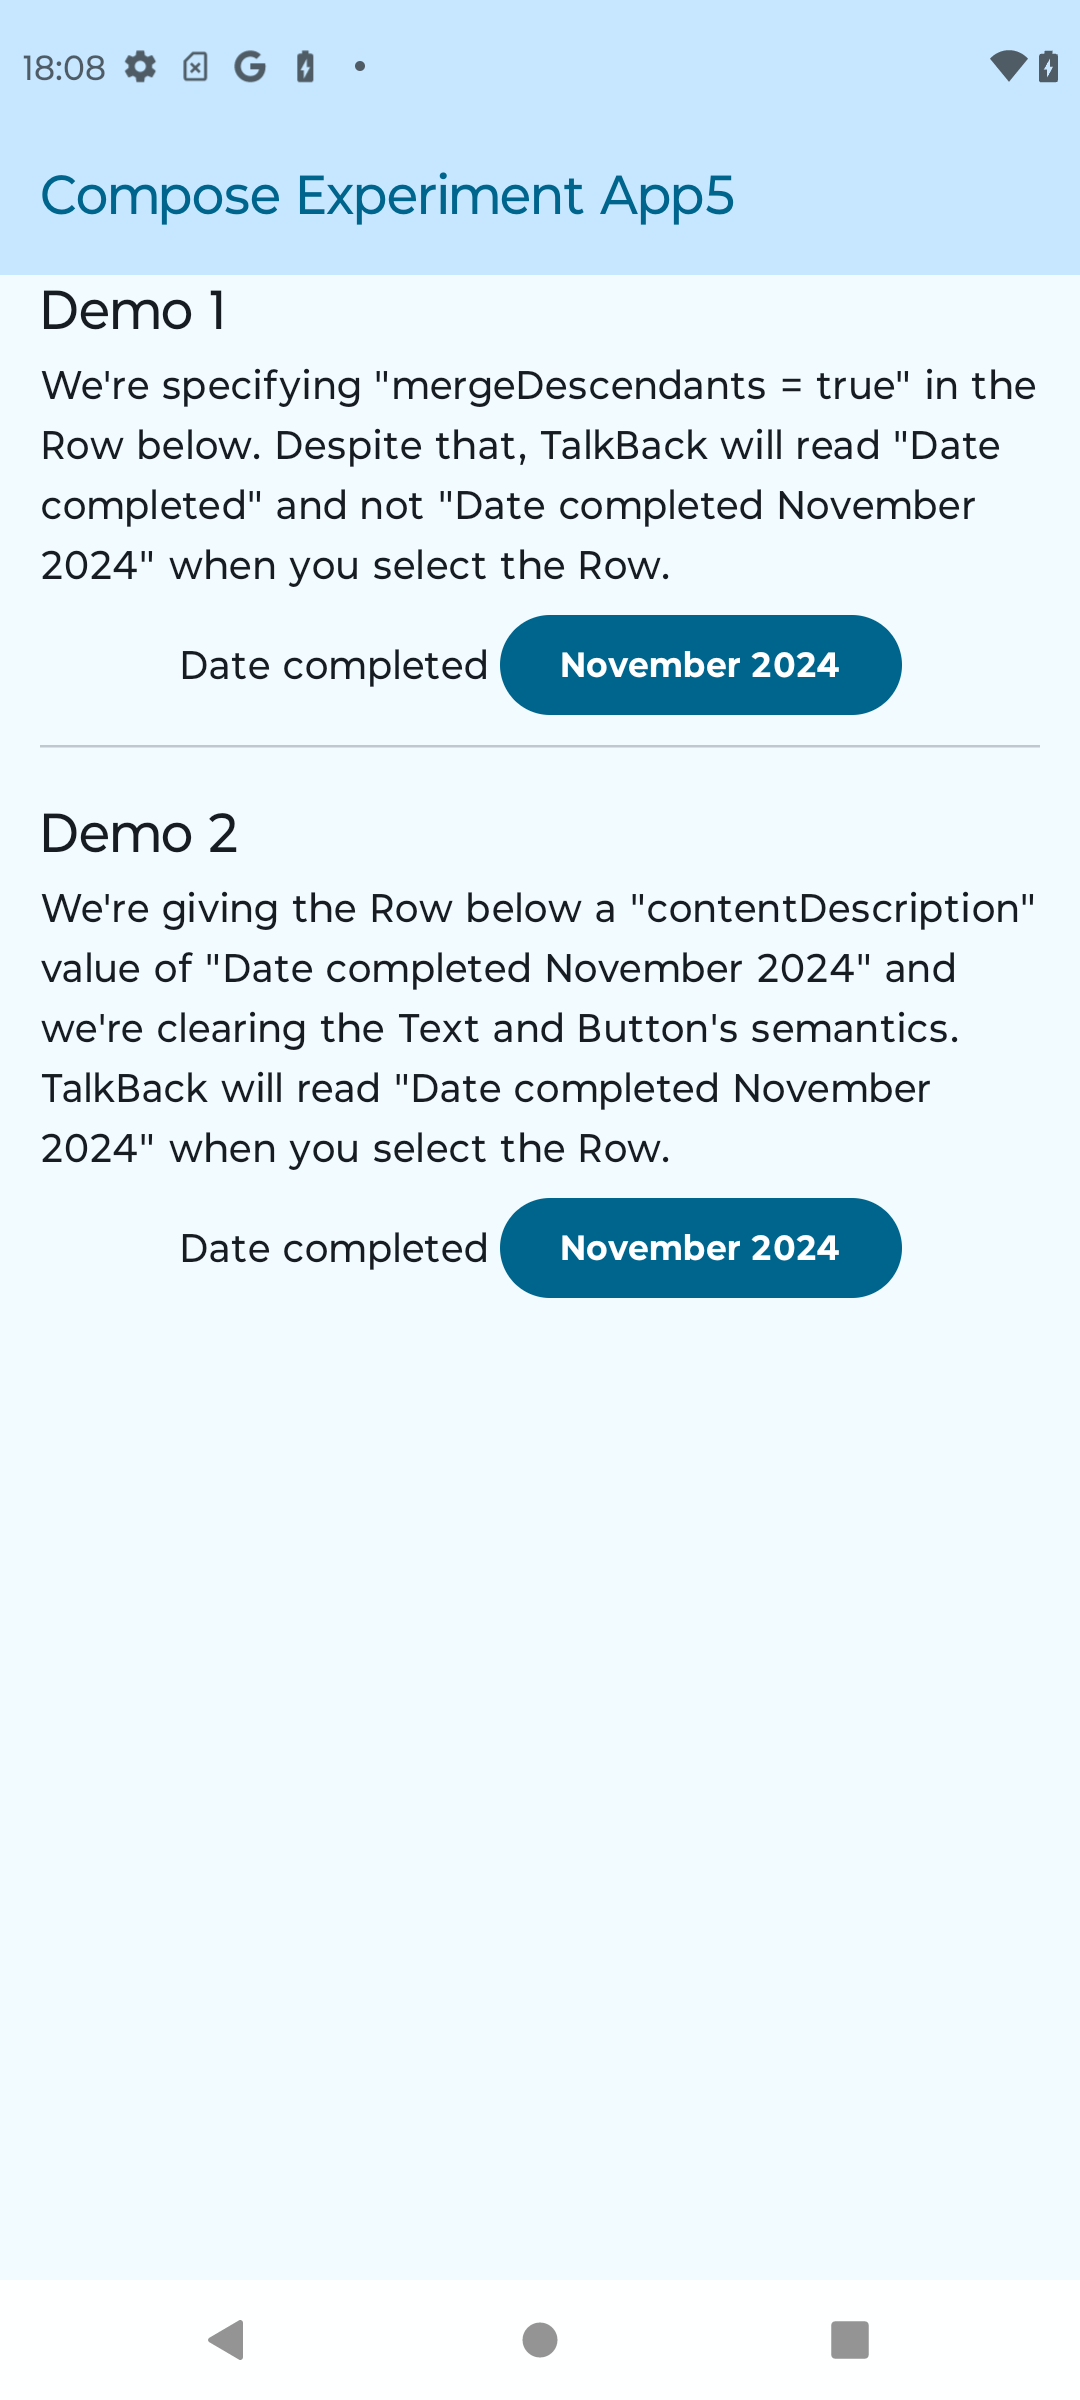
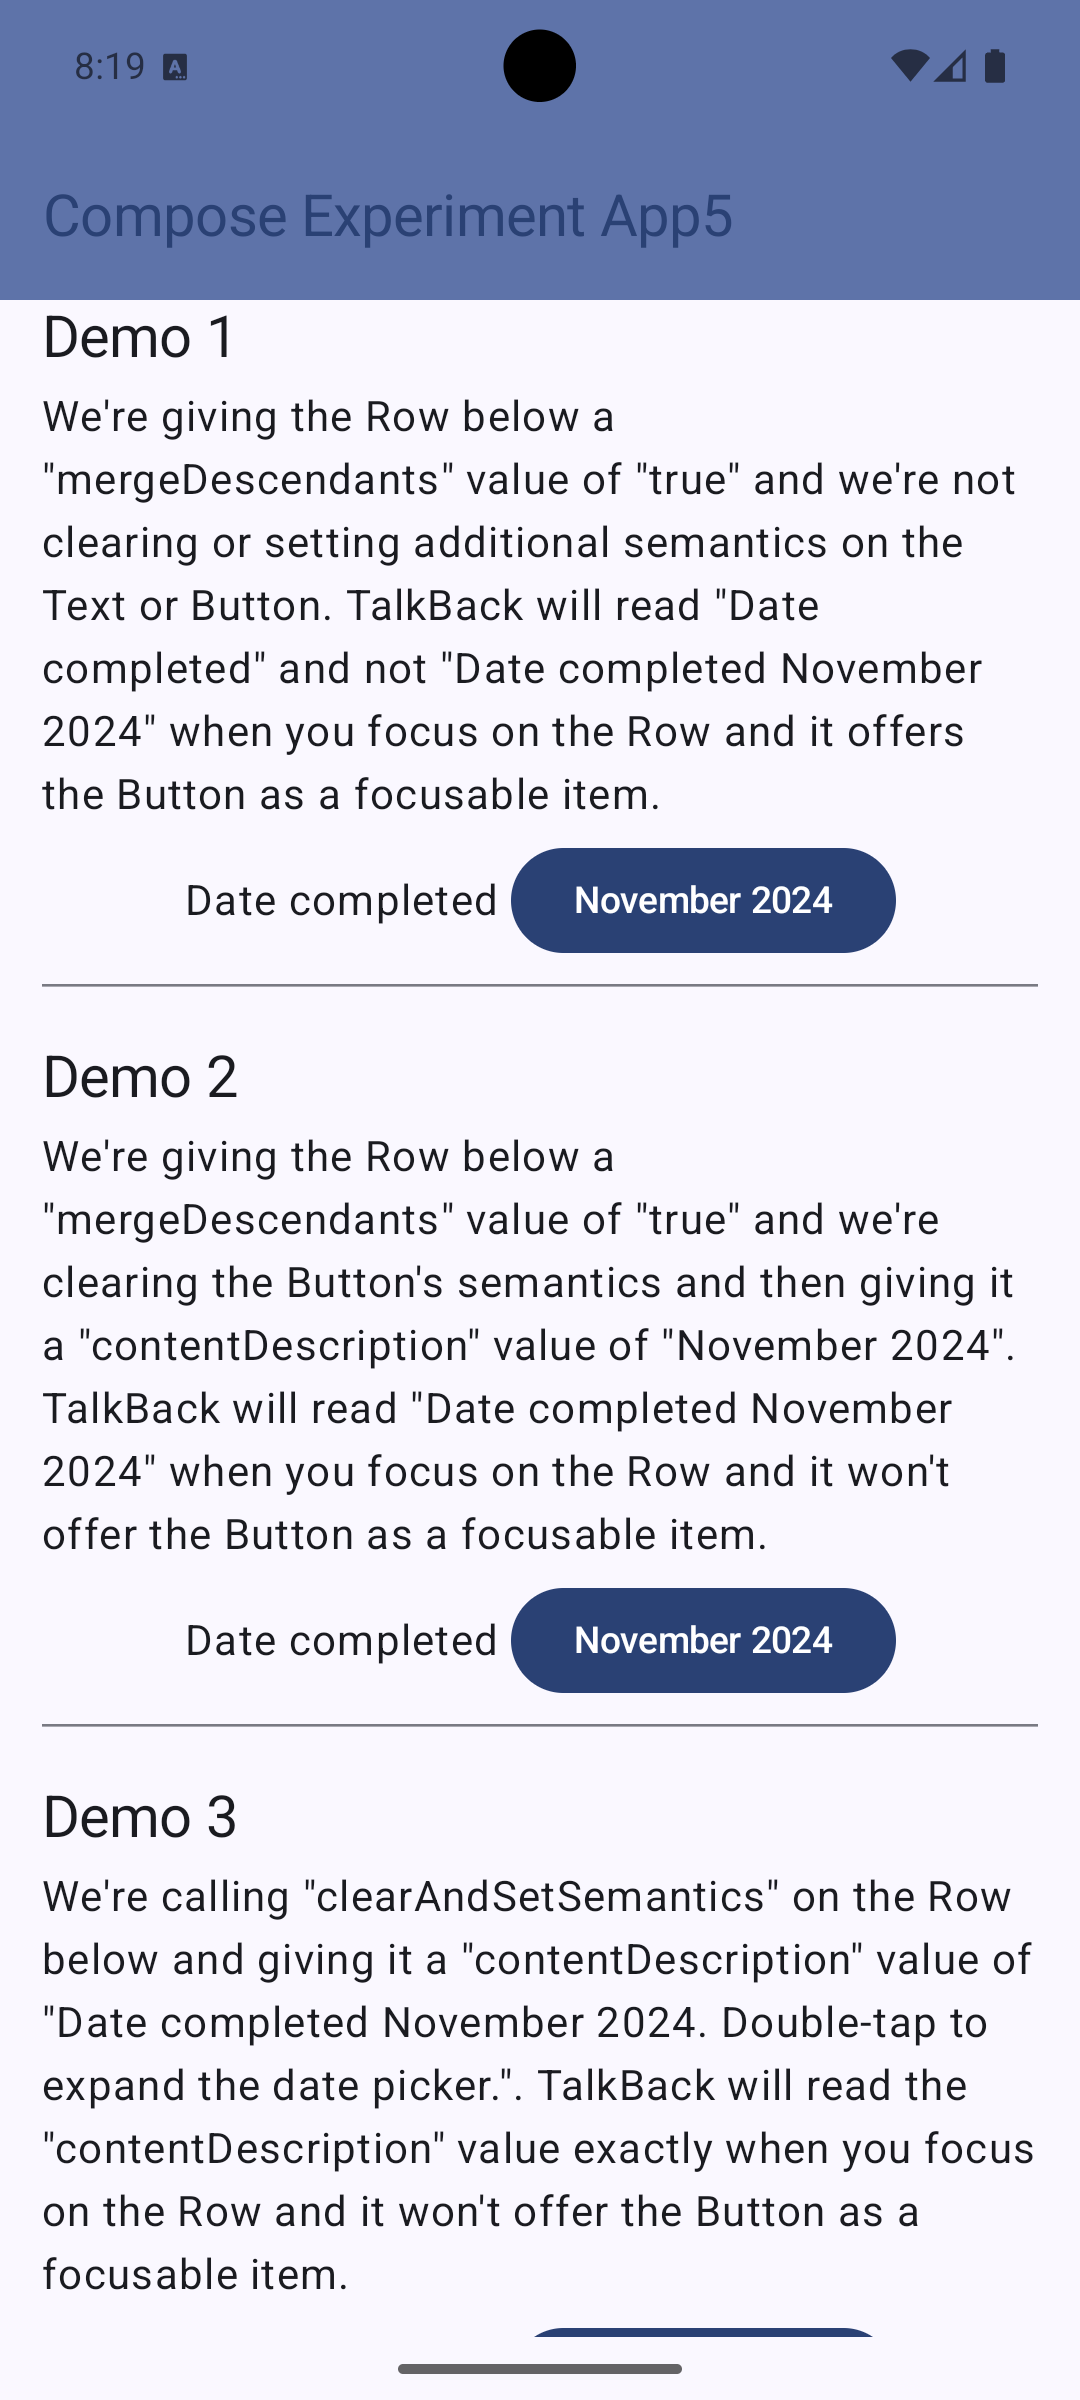
(app5) Update the screenshot and one of the text values in `Demo2View` and one of the text values in `Demo3View`.

diff --git a/app5/src/main/java/com/tazkiyatech/compose/experiments/app5/Demo2View.kt b/app5/src/main/java/com/tazkiyatech/compose/experiments/app5/Demo2View.kt
@@ -35,7 +35,7 @@ fun Demo2View(modifier: Modifier = Modifier) {
             style = MaterialTheme.typography.titleLarge,
         )
         Text(
-            text = "We're giving the Row below a \"mergeDescendants\" value of \"true\" and we're clearing the Button's semantics and then giving it a \"contentDescription\" value \"November 2024\". TalkBack will read \"Date completed November 2024\" when you focus on the Row and it won't offer the Button as a focusable item."
+            text = "We're giving the Row below a \"mergeDescendants\" value of \"true\" and we're clearing the Button's semantics and then giving it a \"contentDescription\" value of \"November 2024\". TalkBack will read \"Date completed November 2024\" when you focus on the Row and it won't offer the Button as a focusable item."
         )
         Row(
             modifier = Modifier

diff --git a/app5/src/main/java/com/tazkiyatech/compose/experiments/app5/Demo3View.kt b/app5/src/main/java/com/tazkiyatech/compose/experiments/app5/Demo3View.kt
@@ -32,7 +32,7 @@ fun Demo3View(modifier: Modifier = Modifier) {
         verticalArrangement = Arrangement.spacedBy(4.dp),
     ) {
         Text(
-            text = "Demo 2",
+            text = "Demo 3",
             modifier = Modifier.semantics { heading() },
             style = MaterialTheme.typography.titleLarge,
         )
